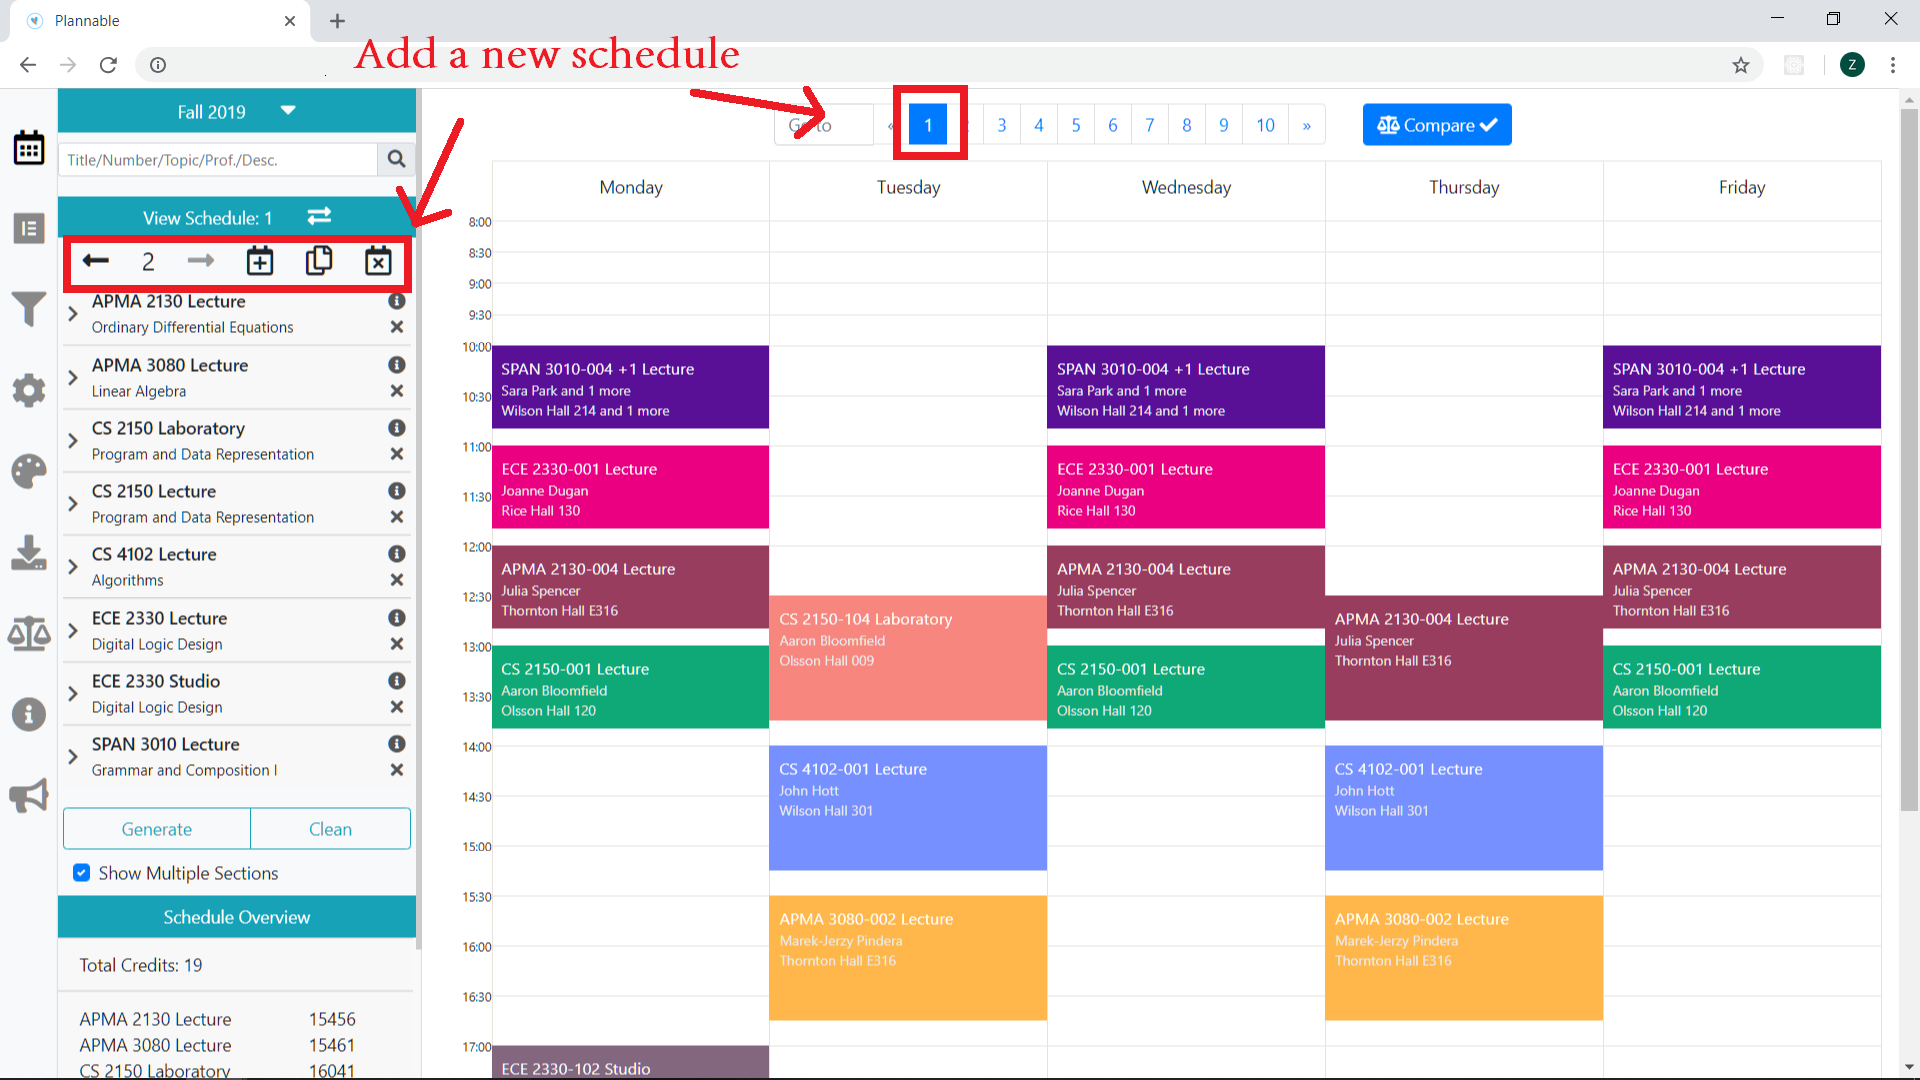
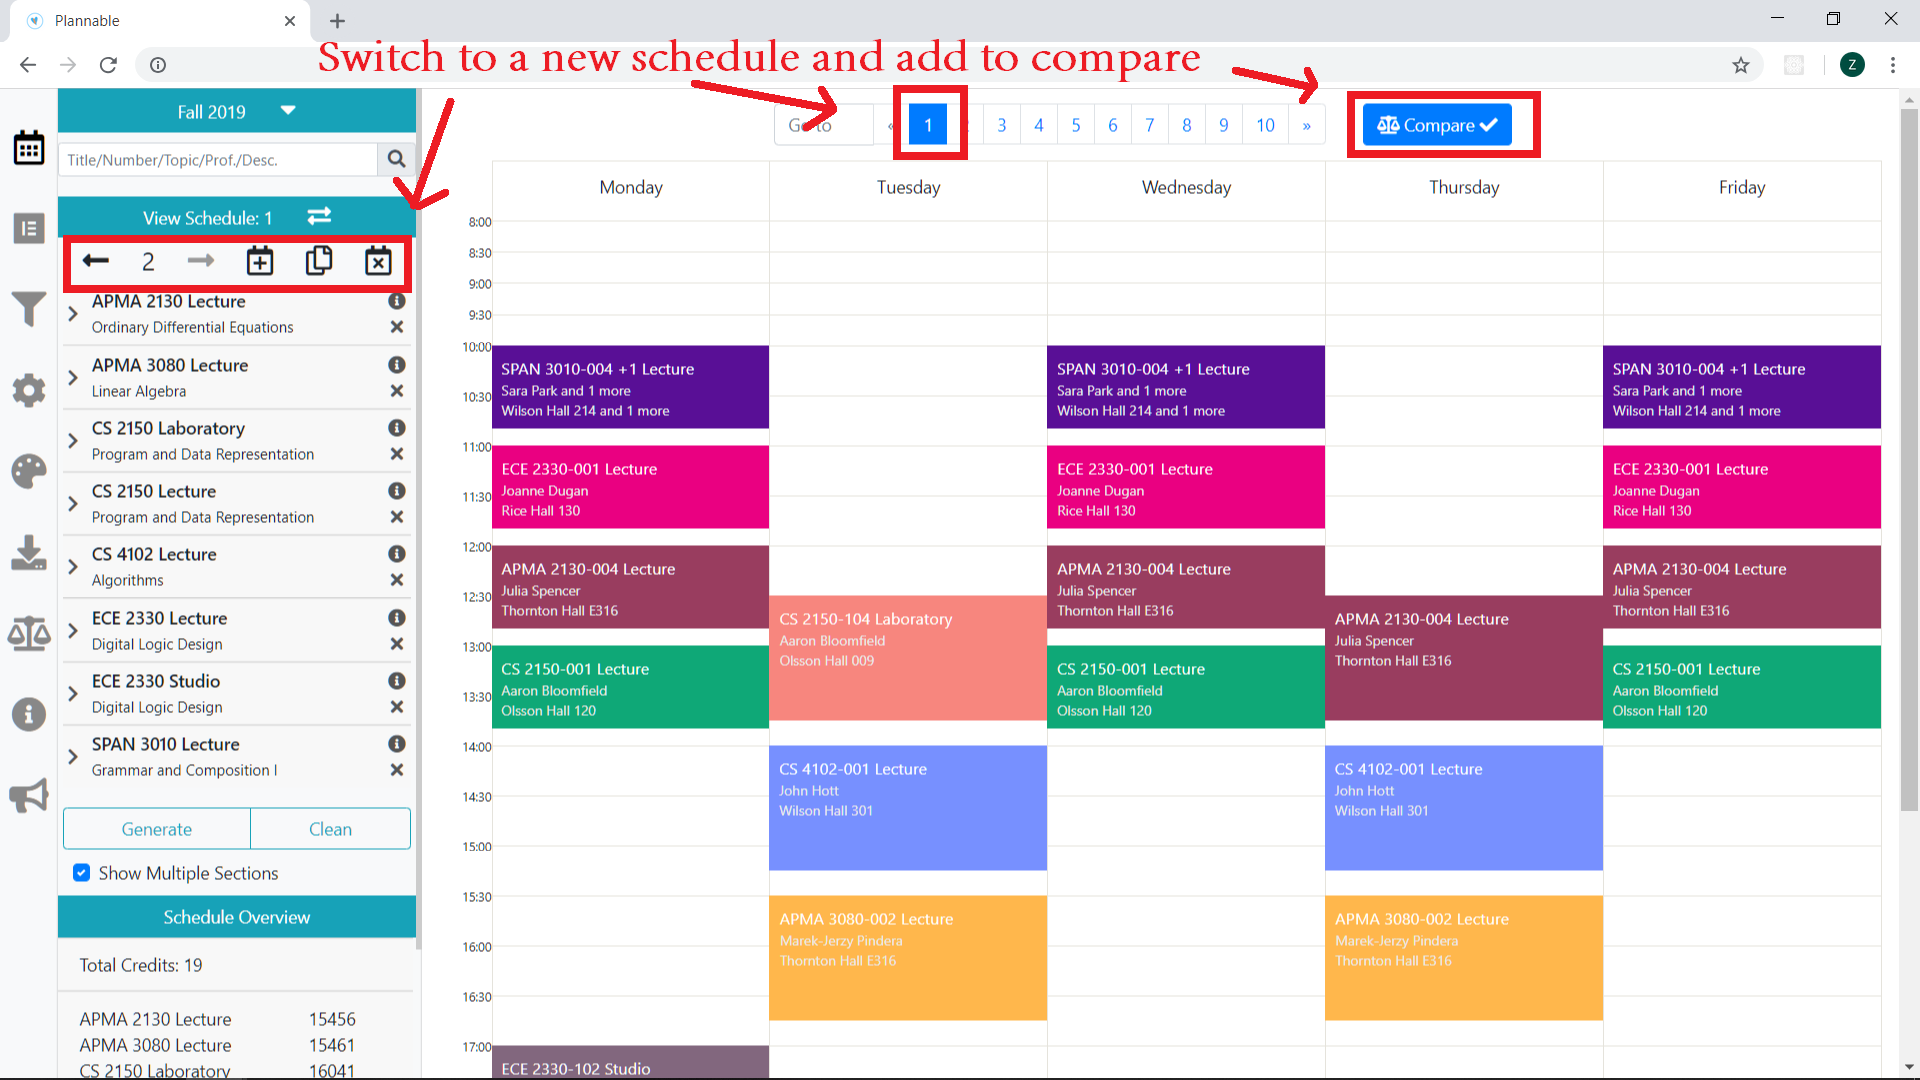
update info

Changed region(s): [[0.1562, 0.0306, 0.625, 0.1222], [0.625, 0.0611, 0.8125, 0.1528], [0.1875, 0.0917, 0.25, 0.2139]]

diff --git a/src/components/tabs/Information.vue b/src/components/tabs/Information.vue
@@ -96,7 +96,7 @@
                 <hr />
                 <p>
                     <small class="text-muted">
-                        Page layout by Kaiying Shan, text by Hanzhi Zhou, media by Zichao Hu
+                        Page layout by Kaiying Shan, text by Hanzhi Zhou, media/text by Zichao Hu
                     </small>
                 </p>
                 <p>
@@ -109,12 +109,12 @@
                     <strong
                         >Important note: It is recommended that you save the schedule after you
                         finish (see <a href="#item-7-2" @click="showGuide(7)">Export to JSON</a>, or
-                        <a href="#item-7-1" @click="showGuide(7)">Export to iCalendar</a>), because our website uses your
-                        browser cache to store data, which could be lost if it expires or the cache
-                        is cleared. If you find any problem when using our website, please first
-                        check whether you are using a compatible browser (see
-                        <a href="#item-11-2" @click="showGuide(9)">browser compatibility</a>). If it is not a problem with
-                        your browser, please consider
+                        <a href="#item-7-1" @click="showGuide(7)">Export to iCalendar</a>), because
+                        our website uses your browser cache to store data, which could be lost if it
+                        expires or the cache is cleared. If you find any problem when using our
+                        website, please first check whether you are using a compatible browser (see
+                        <a href="#item-11-2" @click="showGuide(9)">browser compatibility</a>). If it
+                        is not a problem with your browser, please consider
                         <a href="#item-9-2" @click="showGuide(9)">submitting a bug report</a>.
                     </strong>
                 </p>
@@ -937,10 +937,13 @@
                 </p>
                 <p>
                     Additionally, when you import a profile from either URL or a JSON file, a
-                    separate entry will be created for it if its name does not conflict with the
+                    separate entry will be created if its name does not conflict with the
                     existing profiles. If there is a conflict, you will be prompted to choose either
                     overwriting the existing profile or keep both.
                 </p>
+               <v-card class="mt-3 mb-5 mx-auto gif-center">
+                    <v-img :src="imgPath('multipleProfile.png')"></v-img>
+                </v-card>
                 <button
                     type="button"
                     class="btn btn-primary btn-lg my-5 float-right"
@@ -952,14 +955,15 @@
             <div v-if="selected === 8 || !selected">
                 <h3 id="item-8"><i class="fas fa-balance-scale"></i> Compare Schedules</h3>
                 <p>
-                    Compare schedule feature enables you to compare mutitple different schedules and
-                    helps you identify the differences and similarities between those schedules.
+                    Compare schedule feature enables you to identify the differences and similarities between different schedules.
                     This feature also works well with the
                     <strong>
-                    <a href="#item-7-3" @click="showGuide(7)">mutiple profiles </a></strong> and <strong>
-                    <a href="#item-7" @click="showGuide(7)">export/import</a> </strong>features in the
-                    previous sections. You can share shedules with other people using </strong>export/import </strong>,
-                    then compare the schedules here :)
+                        <a href="#item-7-3" @click="showGuide(7)">mutiple profiles </a></strong
+                    >
+                    and
+                    <strong> <a href="#item-7" @click="showGuide(7)">export/import</a> </strong>
+                    features in the previous sections. You can share shedules with other people
+                    using <strong> export/import </strong>, then compare the schedules here :)
                 </p>
                 <v-stepper v-model="e5" class="my-5 mx-auto" style="width:60vw;">
                     <v-stepper-header>
